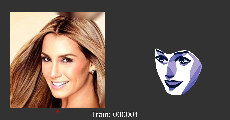
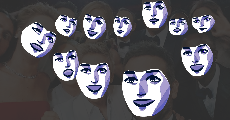
Turned off debug mode briefly

diff --git a/face.js b/face.js
@@ -1,10 +1,10 @@
 /*
  * FaceMap class - holds all informaiton about one mapped
  * face and is able to draw itself.
- */  
+ */
 
 // remove this or set to false to enable full program (load will be slower)
-var DEBUG_MODE = true;
+var DEBUG_MODE = false;
 
 // this can be used to set the number of sliders to show
 var NUM_SLIDERS = 5;
@@ -65,8 +65,8 @@ function Face() {
   /*
    * Draw the face with position lists that include:
    *    chin, right_eye, left_eye, right_eyebrow, left_eyebrow
-   *    bottom_lip, top_lip, nose_tip, nose_bridge, 
-   */  
+   *    bottom_lip, top_lip, nose_tip, nose_bridge,
+   */
   this.draw = function(positions) {
     // head
     //print(positions);
@@ -263,7 +263,7 @@ function Face() {
         curveVertex(left_eye[2][0], left_eye[2][1] - 0.05);
       endShape();
     pop();
-        
+
     // shade 2
     push();
       fill(shadow_colours[1]);
@@ -363,8 +363,8 @@ function Face() {
         curveVertex(chin[13][0], chin[13][1]);
       endShape();
     pop();
-  
-    // shade 3 
+
+    // shade 3
     push();
       fill(shadow_colours[2]);
       beginShape();
@@ -375,8 +375,8 @@ function Face() {
       curveVertex(chin[13][0], chin[13][1]);
       curveVertex(chin[11][0], chin[11][1]);
       endShape();
-    pop(); 
-  
+    pop();
+
     ////////////////////////////////////////// mouth
     push();
       fill(shadow_colours[0]);
@@ -384,8 +384,9 @@ function Face() {
         for(let i = 0; i< int(top_lip.length/2) ; i++){
           vertex(top_lip[i][0], top_lip[i][1]);
         }
-        for(let i = 0; i< int(bottom_lip.length/2) ; i++){
-          vertex(bottom_lip[i][0], bottom_lip[i][1]);
+        // for(let i = int(bottom_lip.length/2); i<  bottom_lip.length; i++){
+        for(let i = bottom_lip.length - 1; i >= int(bottom_lip.length/2); i--){
+            vertex(bottom_lip[i][0], bottom_lip[i][1]);
         }
       endShape();
     pop();
@@ -393,7 +394,7 @@ function Face() {
     push();
       fill(shadow_colours[1]);
       beginShape();
-        for(let i = 0; i<= int(bottom_lip.length/2) ; i++){
+        for(let i = int(bottom_lip.length/2); i<  bottom_lip.length; i++){
           vertex(bottom_lip[i][0], bottom_lip[i][1]);
         }
       endShape();
@@ -447,7 +448,7 @@ function Face() {
           curveVertex(bottom_lip[5][0], bottom_lip[5][1]);
           endShape();
         pop();
-          
+
       }
     }
     else{ // mouth open
@@ -475,7 +476,7 @@ function Face() {
           curveVertex(bottom_lip[0][0], bottom_lip[0][1]);
           curveVertex(bottom_lip[1][0], bottom_lip[1][1]);
         endShape();
-      pop();  
+      pop();
       }
       else{
         push();
@@ -522,7 +523,7 @@ function Face() {
         vertex(right_eyebrow[3][0], right_eyebrow[3][1] - eyebrow_thicknessR);
         vertex(right_eyebrow[4][0], right_eyebrow[4][1]);
         vertex(right_eyebrow[3][0], right_eyebrow[3][1] + eyebrow_thicknessR);
-  
+
       endShape();
       beginShape();
         vertex(left_eyebrow[4][0] + abs(direction/5), left_eyebrow[4][1] + eyebrow_thicknessL);
@@ -538,10 +539,10 @@ function Face() {
     let right_eye_pos = segment_average(positions.right_eye);
 
     ///// right eye /////////
-    
+
     let tempRY = right_eye[3][1]+(right_eye[3][1] - right_eye[2][1])/2
     let tempRX = right_eye[3][0] + 0.05;
-    
+
     // under eye right watercolor
     push();
       fill(shadow_colours[0]);
@@ -555,12 +556,12 @@ function Face() {
         curveVertex(right_eye[3][0], right_eye[3][1] + 0.05);
         curveVertex(tempRX + 0.05,tempRY);
         curveVertex(right_eye[4][0], right_eye[4][1] + 0.1);
-        
+
         curveVertex(right_eye[5][0], right_eye[5][1] + 0.04);
         curveVertex(right_eye[4][0], right_eye[4][1]);
       endShape();
     pop();
-    // shade 2  
+    // shade 2
     push();
       stroke(fringe_col);
       beginShape();
@@ -615,7 +616,7 @@ function Face() {
         curveVertex(tempRX + 0.05,tempRY);
         curveVertex(tempRX + 0.05,tempRY);
       endShape();
-      
+
       fill(outline_colour);
       noStroke();
       let e_height = dist(right_eye[4][0],right_eye[4][1],right_eye[2][0],right_eye[2][1]);
@@ -732,9 +733,9 @@ function Face() {
         let x = min(left_eye[3][0], left_eyebrow[4][0] +(nose_bridge[0][0] - left_eyebrow[4][0])/2); // 2 or 1.1?
         curveVertex(x,left_eye[3][1]);
         curveVertex(x,left_eye[3][1]);
-        // curveVertex(left_eye[3][0],left_eye[3][1]); 
+        // curveVertex(left_eye[3][0],left_eye[3][1]);
         // curveVertex(left_eyebrow[4][0] +(nose_bridge[0][0] - left_eyebrow[4][0])/1.1, nose_bridge[0][1]);
-     
+
       endShape();
       fill(outline_colour);
       noStroke();
@@ -786,7 +787,7 @@ function Face() {
         //   // curveVertex(nose_tip[1][0], nose_tip[1][1]);
         //   // curveVertex(nose_tip[2][0], nose_tip[2][1]);
         //   // curveVertex(nose_tip[2][0], nose_tip[2][1]);
-          
+
         // endShape();
         if(direction > 0.5){
           line(nose_tip[2][0],nose_tip[2][1],nose_bridge[3][0],nose_bridge[3][1]);

diff --git a/README.md b/README.md
@@ -2,7 +2,8 @@
 
 My inital idea for my face is a stylised face with watercolour-esque shading on one side.
 
-Created the face base and all of the watercolour shaded sections and gave an outline to those for a fringe effect.
+Created the face base and all of the watercolour shaded sections and gave an outline to those for a fringe effect
+Turned off debug mode
 Five of the sliders are currently in control of:
   the thickness of the top eyelid
   the colour of the eyes
